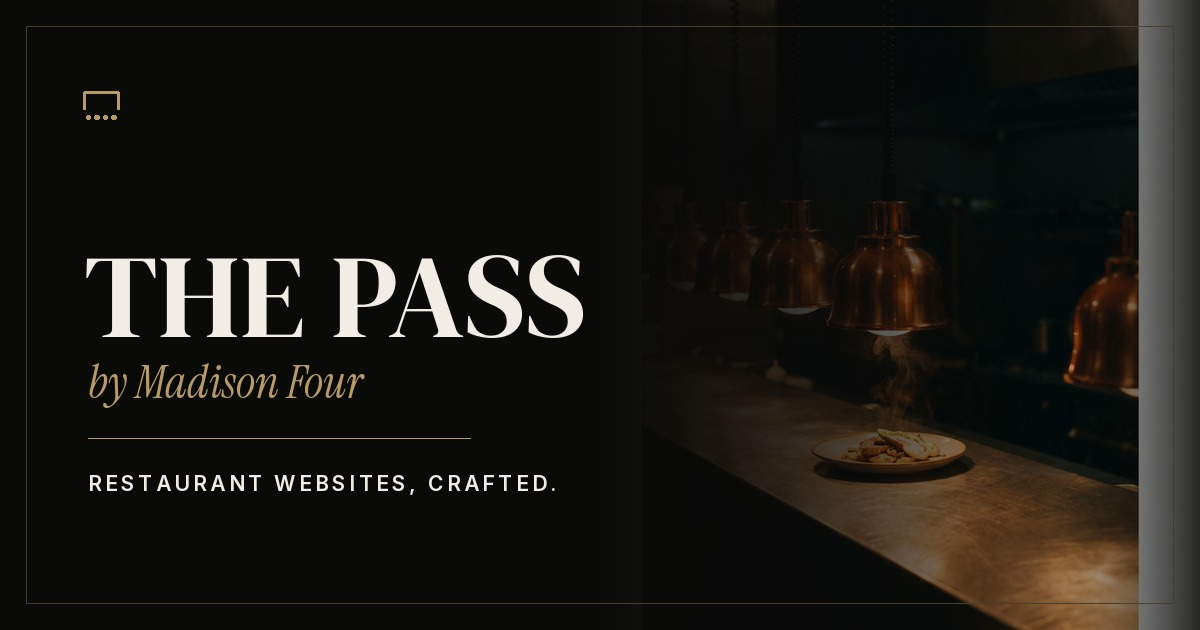
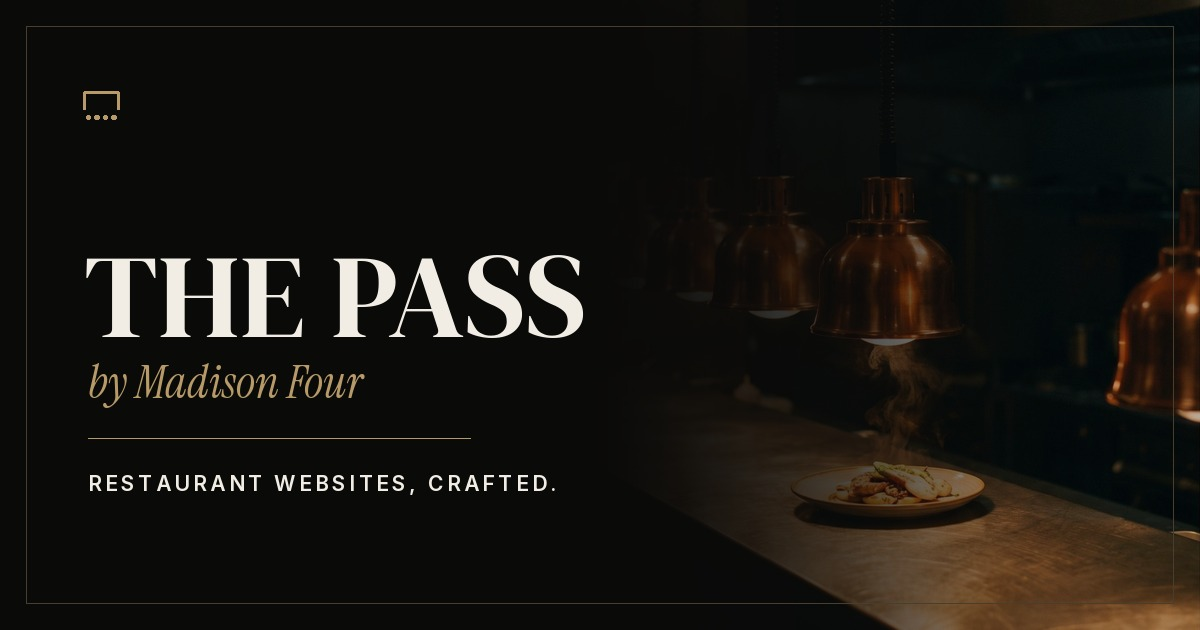
The Our Story photograph had a frame baked into it
The border was not CSS. The generated still arrived with a pure white
edge — 139px down each side, 30px top and bottom — because the model had
rendered the scene as a framed print rather than as a photograph.
Nothing in the prompt asked for one.

It showed up twice. On the page it was a white stripe down the left of
the Our Story photograph, which is what looked like a mismatched border.
On the social card it was a bright band at the right edge, which I
misread as a lit wall in the room and covered with a vignette. One
defect, two symptoms. Cropping the frame off fixes both, and the
vignette comes back out because it was compensating for something that
no longer exists — the card is better without it, with more of the
lamps and the counter surviving.

The crop improves the picture as well: the lamps and the plate sit
larger in the frame now that a fifth of the width is not white.

Also takes the section's hairline from 20% gold to match Selected Work
— every photograph on the dark ground now rings the same, and the light
sections keep their ink hairline.

Recorded in the ledger: measure the edge rows and columns of a generated
still before wiring it in. A mean near 254 on any edge is a frame the
model added.

diff --git a/components/marketing/PassStory.tsx b/components/marketing/PassStory.tsx
@@ -27,7 +27,7 @@ export function PassStory() {
             sizes="(max-width: 1024px) 100vw, 50vw"
             className="mk-parallax object-cover"
           />
-          <div aria-hidden className="absolute inset-0 ring-1 ring-inset ring-[#B79A68]/25" />
+          <div aria-hidden className="absolute inset-0 ring-1 ring-inset ring-[#B79A68]/20" />
         </figure>
 
         <div className="mk-reveal">

diff --git a/scripts/og-card.py b/scripts/og-card.py
@@ -40,16 +40,6 @@ for x in range(ramp):
     md.line([(x, 0), (x, H)], fill=int(255 * (x / ramp) ** 1.7))
 card.paste(photo, (W - panel_w, 0), mask)
 
-# Close the right edge back into ink. The photograph carries a lit wall
-# at that side, and a card that runs bright to its own border looks
-# cropped out of something larger rather than composed.
-edge = Image.new("RGB", (W, H), INK)
-em = Image.new("L", (W, H), 0)
-ed = ImageDraw.Draw(em)
-for i in range(150):
-    ed.line([(W - 1 - i, 0), (W - 1 - i, H)], fill=int(215 * (1 - i / 150) ** 1.4))
-card.paste(edge, (0, 0), em)
-
 d = ImageDraw.Draw(card)
 
 # --- the pass mark: an opening framed on three sides, four points ------

diff --git a/asset-ledger.md b/asset-ledger.md
@@ -79,3 +79,20 @@ their world is honest.
 
 `images.unsplash.com` is gone from next.config remotePatterns as well —
 nothing reaches for it now, so the site should not be permitted to.
+
+## Watch the edges of generated stills
+
+`pass-light.jpg` arrived with a pure white 139px border down its sides
+and 30px top and bottom — the model had rendered the scene as a framed
+print rather than as a photograph. Nothing in the prompt asked for it.
+
+It survived into the site as a white stripe down the left edge of the
+Our Story photograph, where it read as a mismatched border, and into the
+social card as a bright band at the right edge, where it was mistaken
+for a lit wall in the room and papered over with a vignette. Both were
+one defect. Cropping the frame off fixed both, and the vignette came
+back out because it had been compensating for something that no longer
+existed.
+
+So: measure the edge rows and columns of every generated still before
+wiring it in. A mean near 254 on any edge is a frame the model added.
